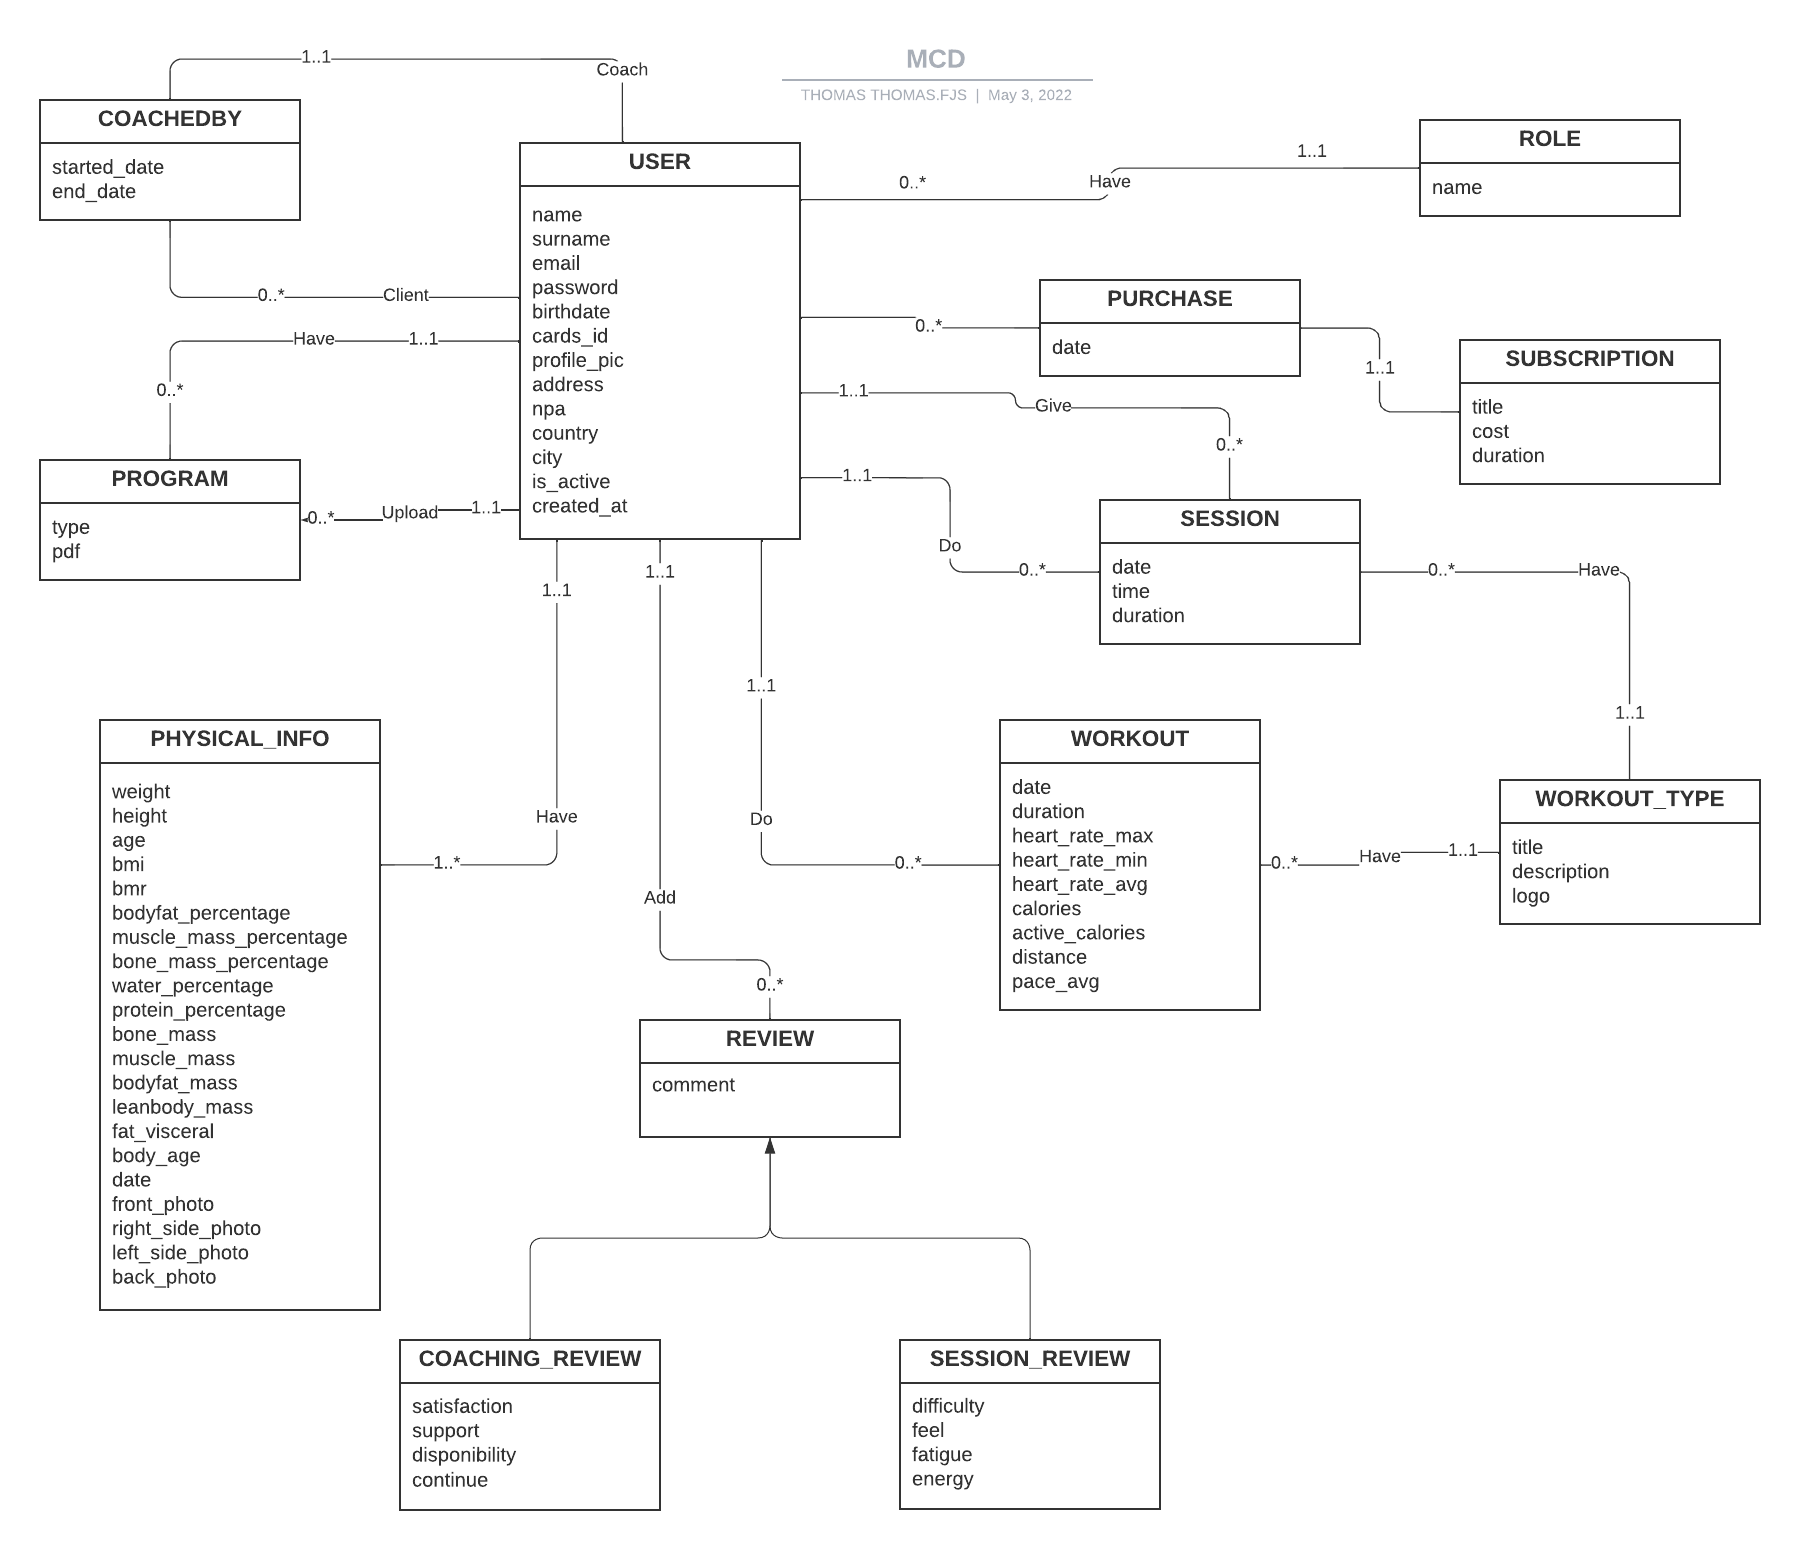
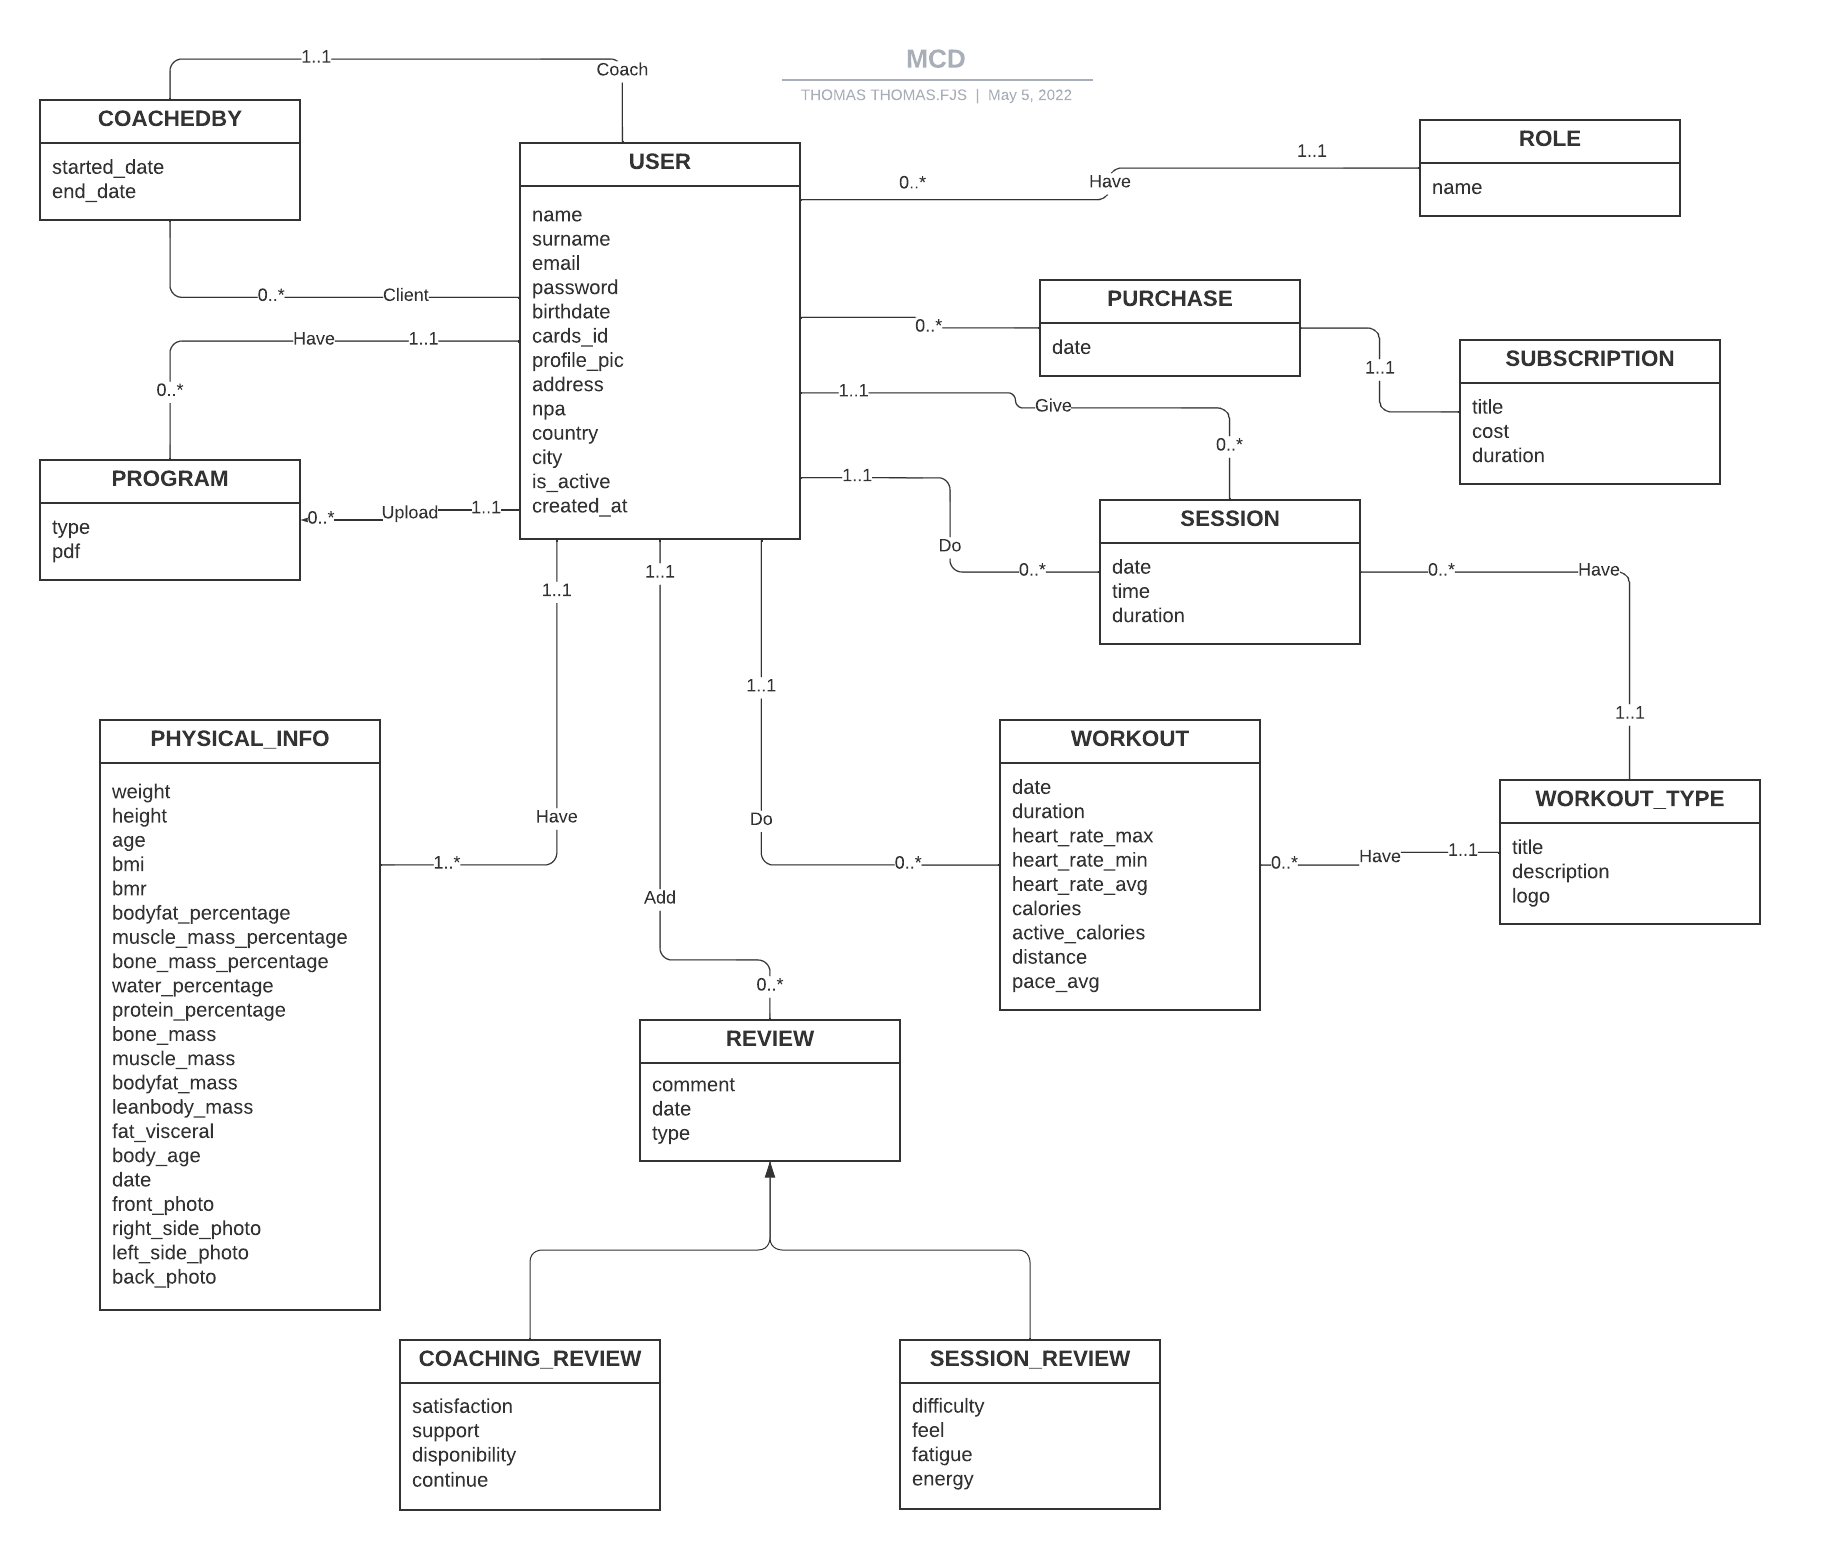
Adding review list on profile page

diff --git a/src/apps/templates/home/profile.html b/src/apps/templates/home/profile.html
@@ -15,9 +15,12 @@
 	</div>
 
 {% endfor %}
-    <div class="row">
 
-      <div class="col-xl-8 order-xl-2">
+  
+
+    <div class="row">
+  
+      <div class="col-xl-8 ">
         <div class="card">
           <div class="card-header">
             <div class="row align-items-center">
@@ -51,7 +54,7 @@
                         <div class="form-group">
                             <div class="card-profile-image">
                                 <a href="#">
-                                   <img src="/static/assets/img/theme/team-4.jpg" class="rounded-circle">
+                                   <img src="/static/assets/img/theme/team-1.jpg" class="rounded-circle">
                                 </a>
                             </div>
                         </div>
@@ -154,8 +157,32 @@
           </div>
         </div>
       </div>
+      <div class="card card-body h-auto" style="width: 18rem; float: right;">
+        <h5 class="card-header">Reports</h5>
+        <table class="table">
+            <thead>
+                <tr>
+                    <th scope="col">Type</th>
+                    <th scope="col">Date</th>
+                </tr>
+            </thead>
+            
+            {% for report in current_user.reports %}
+            <br>
+            <tr >
+                <td>
+                    {{ report.type }}
+                </td>
+                <td>
+                    {{ report.date }}
+                </td>
+            </tr>
+            {% endfor %}
+          
+      </div>
     </div>
-  
+
+
 
 {% endblock content %}
 

diff --git a/src/apps/authentication/models.py b/src/apps/authentication/models.py
@@ -166,26 +166,29 @@ class CoachedBy(db.Model):
 class CoachingReview(db.Model):
     __tablename__ = 'COACHING_REVIEW'
 
-    id = db.Column(db.Integer, primary_key=True)
+    id = db.Column(db.Integer, db.ForeignKey('REVIEW.id') , primary_key=True)
     satisfaction = db.Column(db.Integer, nullable=False)
     support = db.Column(db.Integer, nullable=False)
     disponibility = db.Column(db.Integer, nullable=False)
     is_continuing = db.Column(db.Boolean, nullable=False)
-    comment = db.Column(db.String(250), nullable=True)
-    client_id = db.Column(db.Integer, db.ForeignKey('USER.id'))
 
 class SessionReview(db.Model):
     __tablename__ = 'SESSION_REVIEW'
 
-    id = db.Column(db.Integer, primary_key=True)
+    id = db.Column(db.Integer, db.ForeignKey('REVIEW.id') ,primary_key=True)
     difficulty = db.Column(db.Integer, nullable=False)
     feel = db.Column(db.Integer, nullable=False)
     fatigue = db.Column(db.Integer, nullable=False)
     energy = db.Column(db.Integer, nullable=False)
+
+class Review(db.Model):
+    __tablename__ = 'REVIEW'
+
+    id = db.Column(db.Integer, primary_key=True)
     comment = db.Column(db.String(250), nullable=True)
-    client_id = db.Column(db.Integer, db.ForeignKey('USER.id'))
-
-
+    date = db.Column(db.DateTime)
+    type = db.Column(db.String(15), nullable=False)
+    id_client = db.Column(db.Integer, db.ForeignKey('USER.id'))
 
 @login_manager.user_loader
 def user_loader(id):

diff --git a/src/apps/home/routes.py b/src/apps/home/routes.py
@@ -17,9 +17,10 @@ from flask_login import (
 )
 
 from apps import db, login_manager
-from apps.authentication.models import User, PhysicalInfo, Subscription, Purchase
+from apps.authentication.models import User, PhysicalInfo, Subscription, Purchase, CoachingReview, SessionReview, Review
 from apps.home.forms import UpdateForm
 
+from sqlalchemy import union
 
 @blueprint.route('/index')
 @login_required
@@ -52,6 +53,21 @@ def profile():
 
 	subscription = db.session.query(Subscription.duration, Purchase.date).join(Subscription, Purchase.subscription_id==Subscription.id).filter(Purchase.client_id==id).order_by(Purchase.date).first()
 	
+	#Queries to get all Review from user 
+	q1 = db.session.query(CoachingReview.id, CoachingReview.satisfaction.label("Field1"), CoachingReview.support.label("Field2"), CoachingReview.disponibility.label("Field3"), CoachingReview.is_continuing.label("Field4"))
+	q2 = db.session.query(SessionReview.id, SessionReview.difficulty, SessionReview.feel, SessionReview.fatigue, SessionReview.energy)
+
+	#UNION with the 2 queries 
+	q3 = union(q1,q2).alias()
+
+	#q4 = aliased(q3, name="If")
+
+	query = db.session.query(Review.id, Review.comment, Review.date, Review.type).select_from(q3).join(Review,Review.id==q3.c.COACHING_REVIEW_id).filter(Review.id_client==id)
+
+
+	#Set all the reports
+	current_user.reports = query
+
 	# Set the physical value to the user
 	current_user.physicalInfo = physicalInfo
 

diff --git a/docs/logbook.md b/docs/logbook.md
@@ -254,3 +254,78 @@ J'ai pu terminer la base de la page profil, les informations du client sont affi
 
 
 ### Mercredi, 4 Mai 2022
+
+J'ai pu ajouter les requêtes SQL pour afficher les données sur la page profil comme la fin de l'abonnement qui a été souscrit en dernier.
+
+Il faut que je commence le Poster car le rendu est fixé à Lundi et je dois également poursuivre l'avancement de ma documentation pour le rendu intermédiaire qui a lieu Mardi.
+
+Les points que je dois encore ajouter :
+
+* Expliquer plus en détail l'arborescence de l'application
+* Ajouter l'explication de l'installation générale du projet
+* Détailler les 2 sitemaps
+* Remplir la section Base de données
+* (Ajouter un schéma pour expliquer l'utilisation de l'API par l'application.)
+
+Je peux éventuellement aussi commencer à documenter quelques fichiers comme les routes ou encore les blueprints que j'utilise.
+
+J'ai pu avancer sur mon poster, M.Bonvin nous a proposé de passer demain pour voir les posters et donner un retour.
+
+Pour revenir à l'application, je dois faire une requête SQL pour récupérer les retours du client. Le problème est que les retours sont dans 2 tables différentes. J'ai cherché pendant un petit moment pour trouver une solution, et je me suis rappelé des UNION en SQL qui me permettent exactement de faire ce dont j'ai besoin. Le seul problème est que les champs gardent le nom du premier SELECT.
+
+Donc lorsque je récupère les retours client d'un client en particulier, je les récupère dans un objet *CoachingReview* même si les données proviennent de la table *SessionReview* (Car le premier SELECT de l'UNION est celui de CoachingReview). Il faut que je trouve comment rajouter des *AS* dans ma requête SQL.
+
+### Jeudi, 5 Mai 2022
+
+J'ai trouvé le moyen de renommer les champs avec la méthode *label()*. J'ai donc renommé les champs du premier SELECT pour avoir des propriétés plus génériques. Je peux maintenant terminer l'affichage des retours client. 
+
+Finallement, je vais revoir la base de données pour optimiser la récupération des retours. Actuellement, il n'est déjà pas possible de savoir de quel type est le retour car pas de champs et pour savoir quel coach était assigné au client il faut vérifier dans 2 autres tables pour la date du coaching etc. Je pense finalement garder la table intermédiaire dans le MLD, une table "REVIEW" qui comporte les points communs entre les 2 (client_id, coach_id, date, comment, type) et garder les 2 tables fille qui comporteront les champs spécifiques à chacune. J'ai mis l'ID d'une review dans la table *REVIEW* et cet ID sera la clé primaire et étrangère des tables filles.
+
+Une fois la table intermédiaire ajoutée, je pourrai terminer l'affichage des retours ainsi que la l'affichage de leurs détails. 
+
+Je suis bloqué sur un problème, je n'arrive pas à joindre une table récupérer à l'aide d'un *UNION* avec SQL Alchemy.
+
+Voici la requête en SQL :
+
+```
+SELECT R.id, R.comment, R.date , R.type, I.Field1 
+FROM REVIEW AS R 
+JOIN (SELECT C.id AS ID, C.satisfaction AS Field1 FROM COACHING_REVIEW AS C UNION SELECT S.id, S.difficulty FROM SESSION_REVIEW AS S) AS I ON I.ID = R.id
+WHERE id_client = 1
+```
+
+J'arrive à faire l'UNION avec tous les champs, seulement lorsque je veux join la table à une autre table je n'arrive pas à determiner la jointure (le *ON* ) car je ne peux pas accèder aux colonnes de la table "UNION".
+
+La première requête qui va chercher toutes les reviews de coaching :
+
+```
+q1 = db.session.query(CoachingReview.id, CoachingReview.satisfaction.label("Field1"), CoachingReview.support.label("Field2"), CoachingReview.disponibility.label("Field3"), CoachingReview.is_continuing.label("Field4"))
+	
+```
+
+La deuxième requête qui va chercher toutes les reviews de sessions :
+```
+q2 = db.session.query(SessionReview.id, SessionReview.difficulty, SessionReview.feel, SessionReview.fatigue, SessionReview.energy)
+```
+
+L'union entre les deux :
+```
+q3 = q1.union(q2)
+```
+
+Et la requête qui relie les infos de la table mère *REVIEW* aux données récupérés dans l'UNION :
+```
+	query = db.session.query(Review.id, Review.comment, Review.date, Review.type).join(q3,Review.id==q3.c.id).filter(Review.client_id==id)
+
+```
+
+La variable *q3* qui contient le résultat de l'UNION est sensé posséder les colonnes de cette table accessible depuis *q3.c* mais j'ai l'erreur : 
+```
+AttributeError : id 
+```
+
+En debugant les objets SQL Alchemy, j'ai trouvé pourquoi je n'arrivais pas à accéder aux champs. Les champs avaient un alias généré automatiquement. Pour régler ce problème, j'ai rajouter un nouvel alias à chaque champs et désormais tout fonctionne.
+
+Les reviews du clients sont maintenant affichés sur sa page profil, je peux maintenant ajouter la page de détails lorsqu'on clique sur la review.
+
+Demain je vais beaucoup travailler sur la documentation car le rendu intermédiaire à lieu lundi et il faudrait que j'ai documenté toutes les fonctionnalitées déjà effectué.

diff --git a/docs/documentation.md b/docs/documentation.md
@@ -8,7 +8,7 @@ FitJourney est une application WEB réalisée avec le framework Flask du langage
 Ce document reprend toutes les étapes du projet qui a été réalisé dans le cadre du travail de diplôme de la formation Technicien ES en informatique de Thomas Fujise.
 
 ## Abstract
-FitJourney is an application that allows personal trainers to follow up all his clients training data that is retrieved using Polar connected watches. It also allows clients to access their training and diet plan. The application allows clients to look at the details of each of their workouts.
+FitJourney is an application that allows personal trainers to follow up all their clients training data that is retrieved using Polar connected watches. It also allows clients to access their training and diet plan. The application allows clients to look at the details of each of their workouts.
 
 FitJourney is a WEB application made with Flask Python framework. It relies mainly on the Polar Accesslink API which allows the use of data from connected watches.
 
